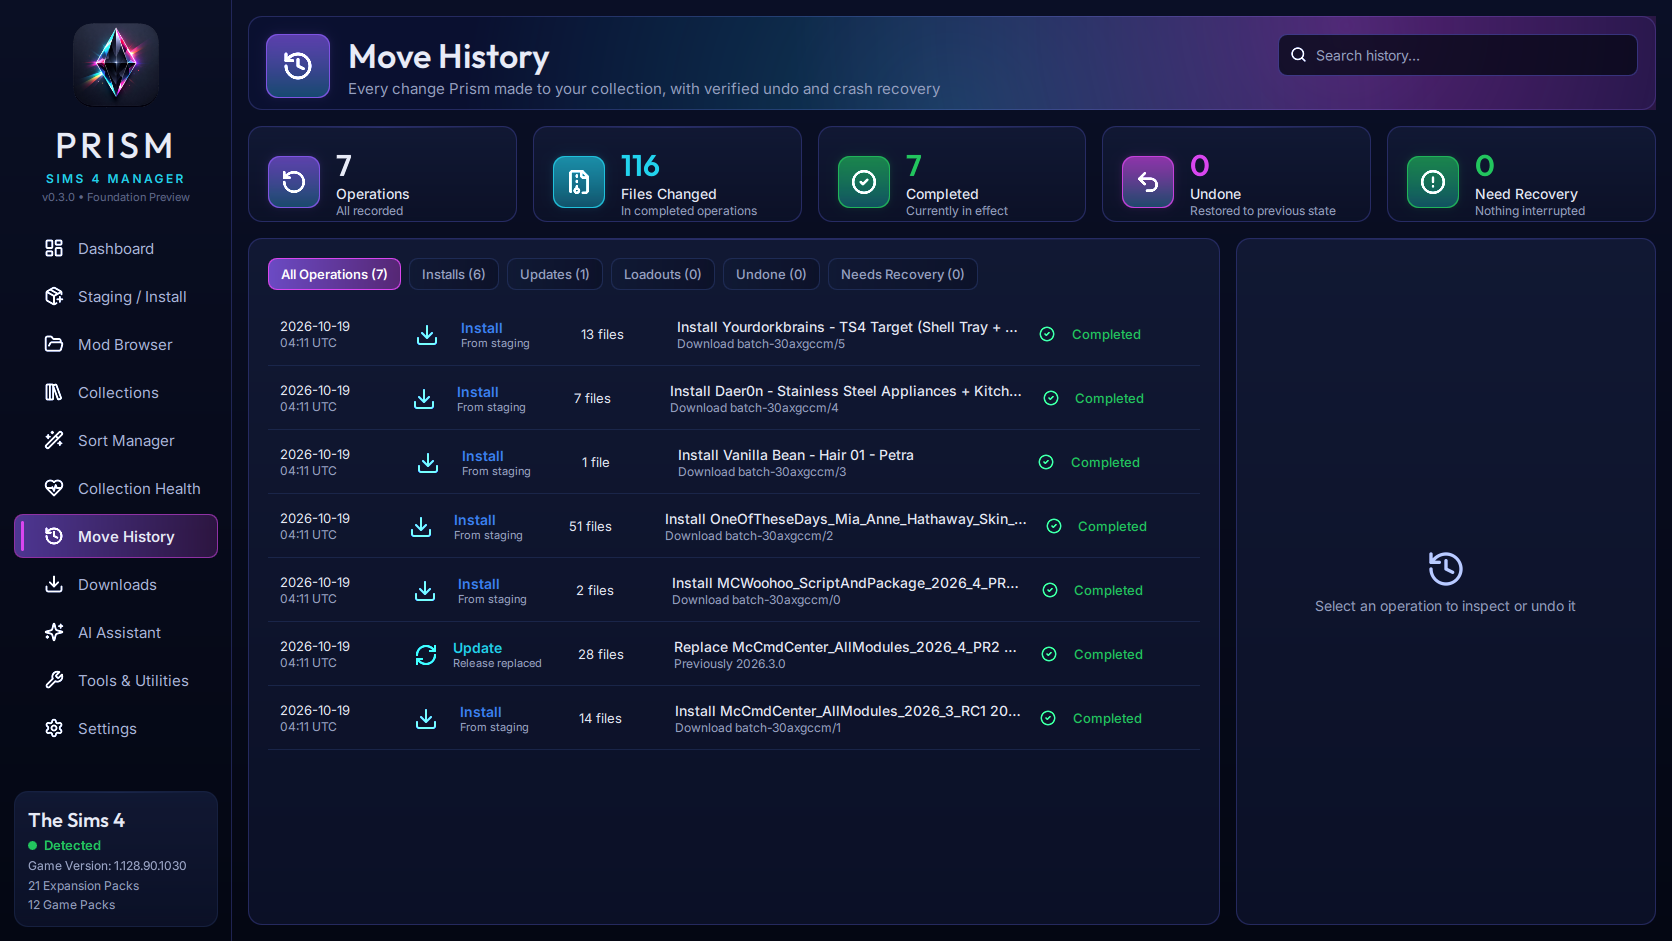
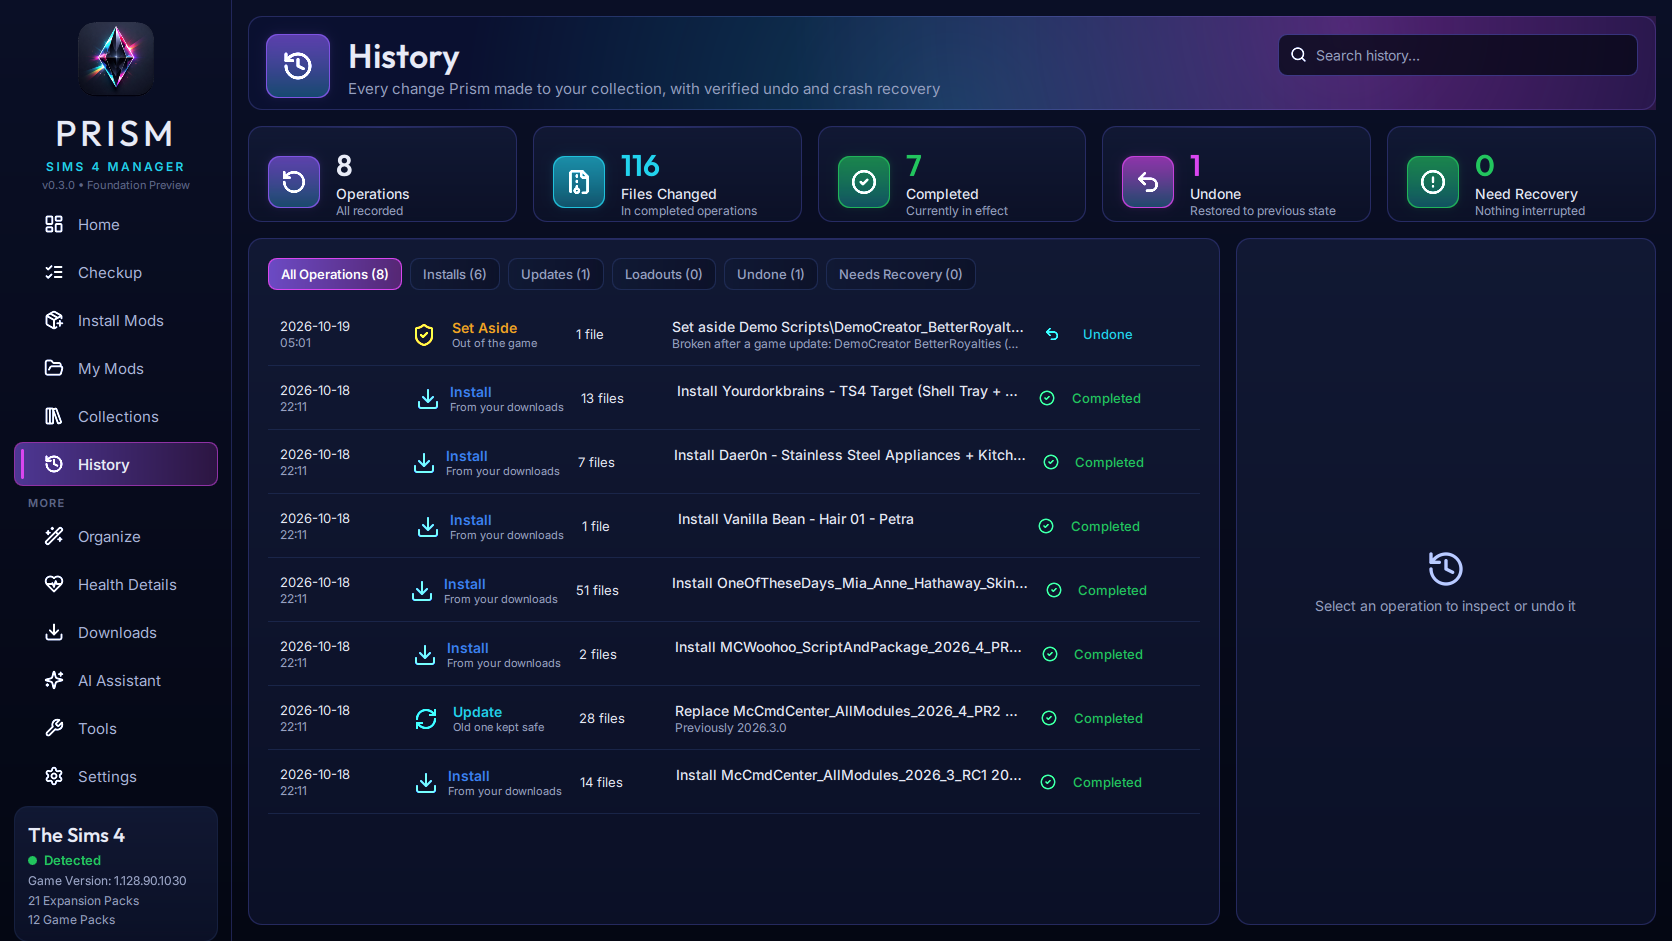
Docs: whole-folder Organize, Sim and lot downloads, big mods installed right, pictures, grounded AI; fresh screenshots; status
- README and site: Organize everything (overrides by content, deliberate choices kept,
  no empty folders left, installs land in the layout), Sim and lot downloads that keep
  your CC and sliders, Create-A-World / Better BuildBuy installs, pictures for mods and
  collections, an Assistant kept accurate for local models, agents for every feature.
- Screenshots retaken from the demo collection with today's page names.
- Status columns follow the roadmap.
- Missing puzzle icon added (two feature cards showed no icon).

diff --git a/docs/index.html b/docs/index.html
@@ -183,7 +183,10 @@
       <div class="feature"><div class="ico"><span style="--m:url(assets/icons/box.svg)"></span></div><h3>Evidence over filenames</h3><p>Prism reads what's inside each package (resource types, CAS body types, embedded previews, script versions), so a "hair" file that's really a hat is filed as a hat.</p></div>
       <div class="feature"><div class="ico"><span style="--m:url(assets/icons/folder-open.svg)"></span></div><h3>Mod Browser</h3><p>A fast visual gallery of everything you have installed, with real thumbnails, categories, folders, suggested sets and per-file details.</p></div>
       <div class="feature"><div class="ico"><span style="--m:url(assets/icons/library-big.svg);--c:var(--magenta)"></span></div><h3>Collections &amp; loadouts</h3><p>Group related content, then switch between gameplay loadouts in one undoable step. Nothing is ever deleted.</p></div>
-      <div class="feature"><div class="ico"><span style="--m:url(assets/icons/wand-sparkles.svg);--c:var(--violet)"></span></div><h3>Sort Manager</h3><p>Organization driven by package contents. Named sets, script releases and overrides stay together, and every move can be undone.</p></div>
+      <div class="feature"><div class="ico"><span style="--m:url(assets/icons/wand-sparkles.svg);--c:var(--violet)"></span></div><h3>Organize everything</h3><p>Your whole Mods folder in one clean layout: CAS, Build/Buy, Gameplay and Overrides (found by what a package replaces, not its name). Mods stay whole, your settings folders and deliberate choices stay put, no empty folders are left behind, and new installs land in the same layout. One undoable step.</p></div>
+      <div class="feature"><div class="ico"><span style="--m:url(assets/icons/package-plus.svg);--c:var(--green)"></span></div><h3>Sims &amp; lots without the mess</h3><p>Sim and lot downloads skip CC and sliders you already have, even under another name. If a bundled slider would replace yours, Prism asks: all, some, or none.</p></div>
+      <div class="feature"><div class="ico"><span style="--m:url(assets/icons/shield-check.svg);--c:var(--violet)"></span></div><h3>Big mods installed right</h3><p>Mods with their own layout, like Create-A-World and Better BuildBuy, are installed exactly as their creators require, and Prism warns about built-in conflicts.</p></div>
+      <div class="feature"><div class="ico"><span style="--m:url(assets/icons/sparkles.svg);--c:var(--magenta)"></span></div><h3>Pictures for everything</h3><p>Give a mod or collection your own picture, the one from its download page, or an AI-generated one (ComfyUI on your PC, OpenAI or Gemini), always labelled.</p></div>
       <div class="feature"><div class="ico"><span style="--m:url(assets/icons/heart-pulse.svg);--c:var(--magenta)"></span></div><h3>Health &amp; error logs</h3><p>Find files the game won't load, resources several mods compete for, and the installed mods named in your exception reports.</p></div>
       <div class="feature"><div class="ico"><span style="--m:url(assets/icons/layers.svg)"></span></div><h3>Exact duplicates</h3><p>Byte-identical copies, confirmed with SHA-256. Extra copies move to a vault, never straight to deletion.</p></div>
       <div class="feature"><div class="ico"><span style="--m:url(assets/icons/puzzle.svg);--c:var(--green)"></span></div><h3>Missing requirements</h3><p>Frameworks your scripts import, mods and packs creators declare as required, and missing meshes. Each comes with its official source, and Prism gets it for you where the site allows.</p></div>
@@ -228,6 +231,7 @@
       <ul>
         <li>Local models (LM Studio, Ollama, llama.cpp, vLLM), your own cloud keys, or agents like Claude Code and Codex.</li>
         <li>The assistant is read-only. Agents can change files only after you turn on reviewed agent changes and approve the exact plan.</li>
+        <li>Kept honest: answers come from your real collection, Prism's built-in guide and a final check, so even small local models don't invent features or claim to have changed files.</li>
         <li>Honest about limits: fixes from small local models are often wrong. Prism rejects what it can detect and recommends stronger models for code.</li>
       </ul>
     </div>
@@ -243,26 +247,25 @@
     </div>
     <div class="road">
       <div class="col"><h3><i class="dot" style="background:var(--green)"></i>Working now</h3><ul>
-        <li>Staging, release analysis and transactional installs with undo</li>
-        <li>Mod Browser, Collections and Loadouts</li>
-        <li>Sort Manager, Collection Health, error-log analysis</li>
-        <li>Downloads with source tracking; Nexus Mods integration</li>
-        <li>Duplicate finder and AI assistant</li>
-        <li>Missing requirements and missing meshes, with fetching from official sources</li>
-        <li>Mod Doctor compatibility fixes</li>
-        <li>Build/Buy subcategories from catalog data</li>
+        <li>Installs and updates with undo, straight into your layout</li>
+        <li>Organize the whole Mods folder, tested on a real 43,000-file collection</li>
+        <li>Sim and lot downloads that keep your CC and sliders intact</li>
         <li>Checkup with one-click fixes, and Set Aside for problem files</li>
-        <li>Game update impact: which mods an update may break, before you launch</li></ul></div>
+        <li>Mod Browser, Collections, Loadouts and pictures</li>
+        <li>Missing requirements, Mod Doctor and game update impact</li>
+        <li>Opt-in in-game probe: which script mods really loaded</li>
+        <li>Downloads with source tracking; Nexus Mods integration</li>
+        <li>AI assistant (local or cloud) and agent tools for every feature</li></ul></div>
       <div class="col"><h3><i class="dot" style="background:var(--amber)"></i>In progress</h3><ul>
-        <li>Opt-in in-game probe: which mod changes which game behaviour</li>
-        <li>Evidence-driven automatic "50/50" troubleshooting</li>
-        <li>Theme and appearance options</li>
+        <li>Evidence-driven "find the culprit" troubleshooting</li>
+        <li>Main-menu probe and interface-override checks</li>
+        <li>More layout choices (simple, granular, keep mine)</li>
         <li>CurseForge integration (pending approval)</li>
-        <li>Polish, accessibility and performance</li></ul></div>
+        <li>Speed: faster first checks on huge collections</li></ul></div>
       <div class="col"><h3><i class="dot" style="background:var(--violet)"></i>Next</h3><ul>
         <li>Windows installer and first public release</li>
-        <li>Thumbnail Studio for missing previews (clearly labelled when generated)</li>
-        <li>More platform integrations</li></ul></div>
+        <li>Previews for CC that ships without one</li>
+        <li>Animated, polished look</li></ul></div>
     </div>
   </div>
 </section>
@@ -288,11 +291,12 @@
 
 <script>
   const shots = [
-    ['staging', 'Staging / Install', 'Review releases, versions and replacements before anything moves.'],
-    ['browser', 'Mod Browser', 'Real thumbnails from inside your packages, with categories and folders.'],
+    ['dashboard', 'Home', 'Your collection at a glance, what needs attention, and a Play button.'],
+    ['staging', 'Install Mods', 'Review releases, versions and replacements before anything moves.'],
+    ['browser', 'My Mods', 'Real thumbnails from inside your packages, with categories and folders.'],
     ['collections', 'Collections', 'Group content into collections and switch gameplay loadouts safely.'],
-    ['sort', 'Sort Manager', 'Previewable organization driven by what packages contain.'],
-    ['health', 'Collection Health', 'Evidence from inside your packages, not guesses from filenames.'],
+    ['sort', 'Organize', 'Your whole Mods folder in one clean layout, previewed first and undoable.'],
+    ['health', 'Health Details', 'Evidence from inside your packages, not guesses from filenames.'],
     ['history', 'Move History', 'Every change Prism made, with verified undo and crash recovery.'],
     ['downloads', 'Downloads', 'Bring in mods from where creators share them, with where each file came from.'],
     ['assistant', 'AI Assistant', 'Read-only help that looks at your real collection before answering.'],

diff --git a/README.md b/README.md
@@ -20,11 +20,14 @@ Prism helps you install, browse, organize and troubleshoot large Sims 4 collecti
 
 - **Checkup.** One screen that tells you what's wrong with your collection in plain language, most important first, each with one fix button. It covers broken files, files too deep in folders for the game to load, script mods that stopped working, missing requirements, CAS items that will be invisible, duplicates, and fixes to confirm after playing. Every fix can be undone.
 - **Set Aside.** Take problem files out of the game without deleting them. Prism keeps the reason, and you can put them back any time. Deleting is your choice alone: files go to the Windows Recycle Bin, and the assistant and agents can never delete anything.
+- **Sim and lot downloads.** Bundled CC and sliders you already have are skipped, even under another file name (Prism matches the item IDs inside). If a bundled slider would replace one of yours, Prism asks: all of them, the ones you tick, or none. Renamed tray copies the game would ignore are left out, and incomplete households or lots are flagged.
+- **Big mods installed right.** Mods with their own layout, like Create-A-World and Better BuildBuy, are installed exactly as their creators require (the whole folder, every file type), and Prism warns about conflicts their creators name.
 - **Safe installs and updates.** Downloads are staged and analyzed first. You review exactly which files move and which versions are replaced, then Prism installs them as one transaction that you can undo, and that recovers safely after a crash or power loss. Prism never overwrites a file.
 - **Evidence over filenames.** Prism reads what is inside each package (resource types, CAS body types, embedded thumbnails and script versions) instead of trusting names. Shared resources are reported as candidates to review, never presumed conflicts.
-- **Mod Browser.** A fast visual gallery of everything installed, with embedded previews, categories, folders, suggested sets, and per-file details.
+- **Pictures.** Give a mod or a collection your own picture, the one from its download page, or an AI-generated one (ComfyUI on your PC, OpenAI or Gemini). Generated pictures are always labelled.
+- **My Mods.** A fast visual gallery of everything installed, with embedded previews, categories, folders, suggested sets, and per-file details.
 - **Collections and loadouts.** Group related content, then switch gameplay loadouts in one undoable step. Nothing is deleted when you switch.
-- **Sort Manager.** Previewable organization driven by package contents. Named sets, script releases and overrides stay together, and every move can be undone.
+- **Organize everything.** Your whole Mods folder in one clean layout (CAS, Build/Buy, Gameplay, Overrides, Animations & Poses), planned in seconds even for 43,000 files and applied as one undoable step. Overrides are found by what a package replaces, not by its name. Mods stay whole, scripts stay where the game loads them, and your settings folders and deliberate choices stay put. Old folders, empty ones included, are removed, and new installs land in the same layout.
 - **Collection Health and game error logs.** Find files the game will not load, contested resources, and the installed mods that appear in exception tracebacks.
 - **Missing requirements, found and fetched.** Prism finds what your mods need but don't have:
   - script frameworks they import, read from compiled code without running it;
@@ -37,14 +40,15 @@ Prism helps you install, browse, organize and troubleshoot large Sims 4 collecti
 - **Downloads and sources.** Prism records where each download came from and checks those sources for newer files where the site allows it. It uses Nexus Mods through its official API with your own key, reads public Mod The Sims pages only when you ask, and works with your browser for everything else. CurseForge support is waiting on API approval. Prism never bypasses logins, captchas, paywalls or site rules.
 - **Exact Duplicate Finder.** Byte-identical copies, confirmed with SHA-256. Extra copies go to a vault, never to the recycle bin.
 - **Build/Buy by catalog.** Build/Buy subfolders (seating, lighting, plumbing, decor...) come from each object's own Buy/Build catalog tags, the same categories the game uses. On a 43,000-file test collection, the number of Build/Buy files Prism could place confidently went from about 6,700 to 17,800.
-- **AI Assistant (optional).** Works with local models (LM Studio, Ollama, llama.cpp, vLLM and more) or your own cloud keys (Anthropic, OpenAI, Gemini). It only reads your collection and suggests the right screen for any change. It cannot install, move or delete anything, and every change stays yours to approve. Settings recommends local models that fit your PC, with results Prism measured on real hardware.
-- **Agents (optional).** Claude Code, Codex and other MCP clients can use Prism's tools to inspect your collection and draft Mod Doctor fixes. They can only change files after you turn on reviewed agent changes and approve the exact plan. Fixes written by small local models are often wrong: Prism rejects what it can detect and recommends stronger models for code.
+- **AI Assistant (optional).** Works with local models (LM Studio, Ollama, llama.cpp, vLLM and more) or your own cloud keys (Anthropic, OpenAI, Gemini). It only reads your collection and suggests the right screen for any change. Its answers come from your real collection, Prism's built-in guide and a final check, so even small local models stay accurate about what Prism can do. It cannot install, move or delete anything, and every change stays yours to approve. Settings recommends local models that fit your PC, with results Prism measured on real hardware.
+- **Agents (optional).** Claude Code, Codex and other MCP clients can use every Prism feature through its tools: the Checkup, installs, Organize, Mod Doctor and more. They can only change files after you turn on reviewed agent changes and approve the exact plan. Fixes written by small local models are often wrong: Prism rejects what it can detect and recommends stronger models for code.
 
 ## Screenshots
 
 | | |
 |---|---|
-| ![Staging and install](docs/screenshots/staging.png) **Staging / Install**: review releases, versions and replacements before anything moves | ![Mod Browser](docs/screenshots/browser.png) **Mod Browser**: embedded previews and content categories |
+| ![Organize](docs/screenshots/sort.png) **Organize**: your whole Mods folder in one clean layout, previewed first | ![Install Mods](docs/screenshots/staging.png) **Install Mods**: review releases, versions and replacements before anything moves |
+| ![My Mods](docs/screenshots/browser.png) **My Mods**: embedded previews and content categories | ![Home](docs/screenshots/dashboard.png) **Home**: what needs attention, and a Play button |
 | ![Collections](docs/screenshots/collections.png) **Collections & Loadouts**: group content, switch sets safely | ![Collection Health](docs/screenshots/health.png) **Collection Health**: evidence from inside your packages |
 | ![Move History](docs/screenshots/history.png) **Move History**: every change recorded, undoable and recoverable | ![Downloads](docs/screenshots/downloads.png) **Downloads**: sources and where each file came from |
 | ![AI Assistant](docs/screenshots/assistant.png) **AI Assistant**: read-only help with real tools | ![Tools](docs/screenshots/tools.png) **Tools & Utilities**: inspectors, maintenance and external apps |
@@ -64,7 +68,7 @@ Screenshots show a small demo collection. Custom content shown belongs to its cr
 
 ## Status
 
-Prism runs on Windows with Python and Qt (PySide6 / Qt Quick). It is being built and tested against real collections. Planned before the first public release: an opt-in in-game probe that shows which mod changes which game behaviour, automated "50/50" troubleshooting driven by evidence instead of guesswork, a Windows installer, Thumbnail Studio for missing previews, theme options, and broader platform integrations.
+Prism runs on Windows with Python and Qt (PySide6 / Qt Quick) and is used daily on a real 43,000-file collection. Working now: installs and updates into a clean layout, whole-folder Organize, Sim and lot downloads that keep your CC and sliders intact, the Checkup, Set Aside, Mod Doctor, missing requirements, game update impact, the in-game probe, pictures, and AI for local models, cloud models and agents. In progress before the first public release: evidence-driven "find the culprit" troubleshooting, a main-menu probe and interface-override checks, more layout choices, CurseForge (pending approval), and a Windows installer.
 
 ## License
 
